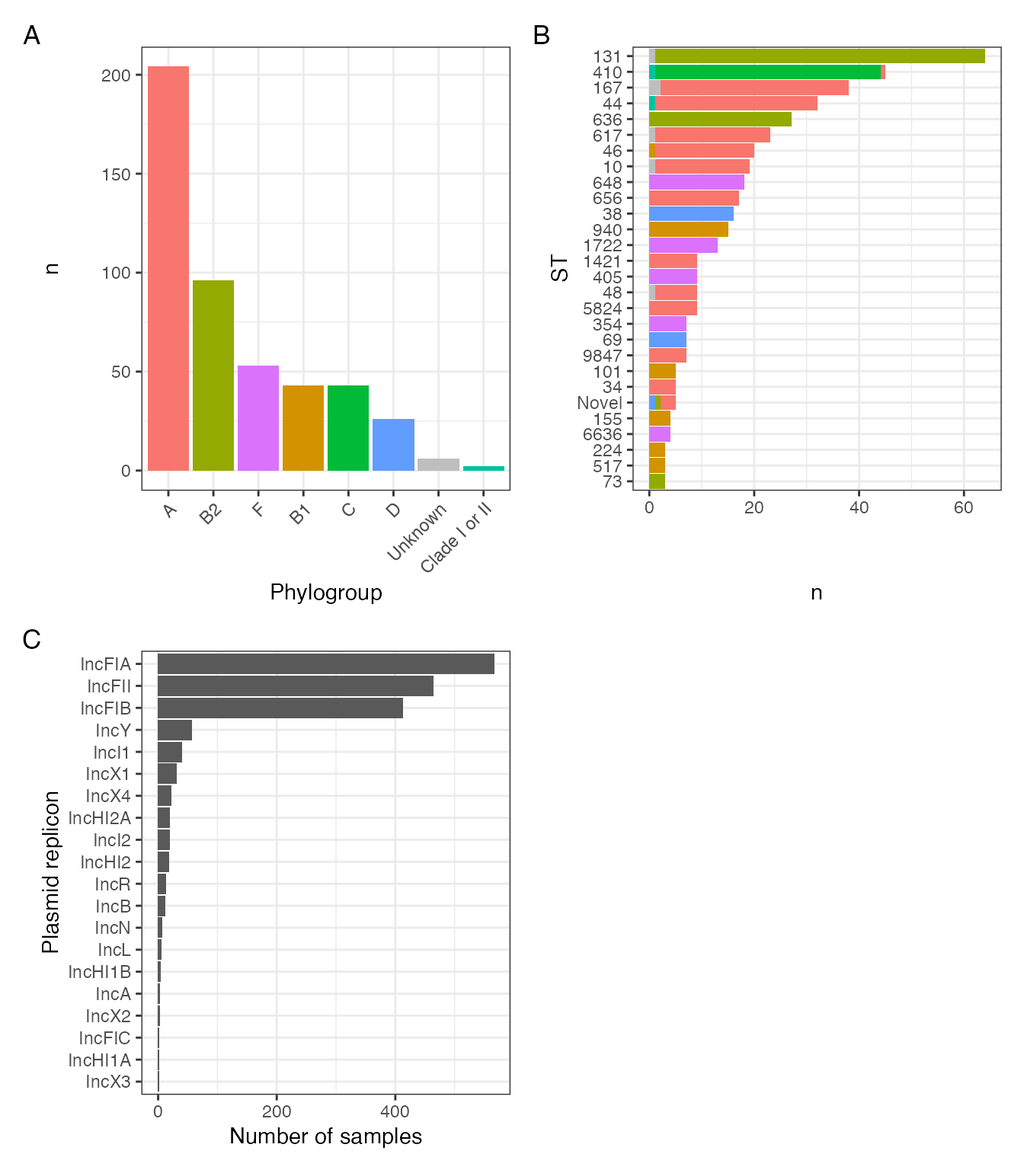
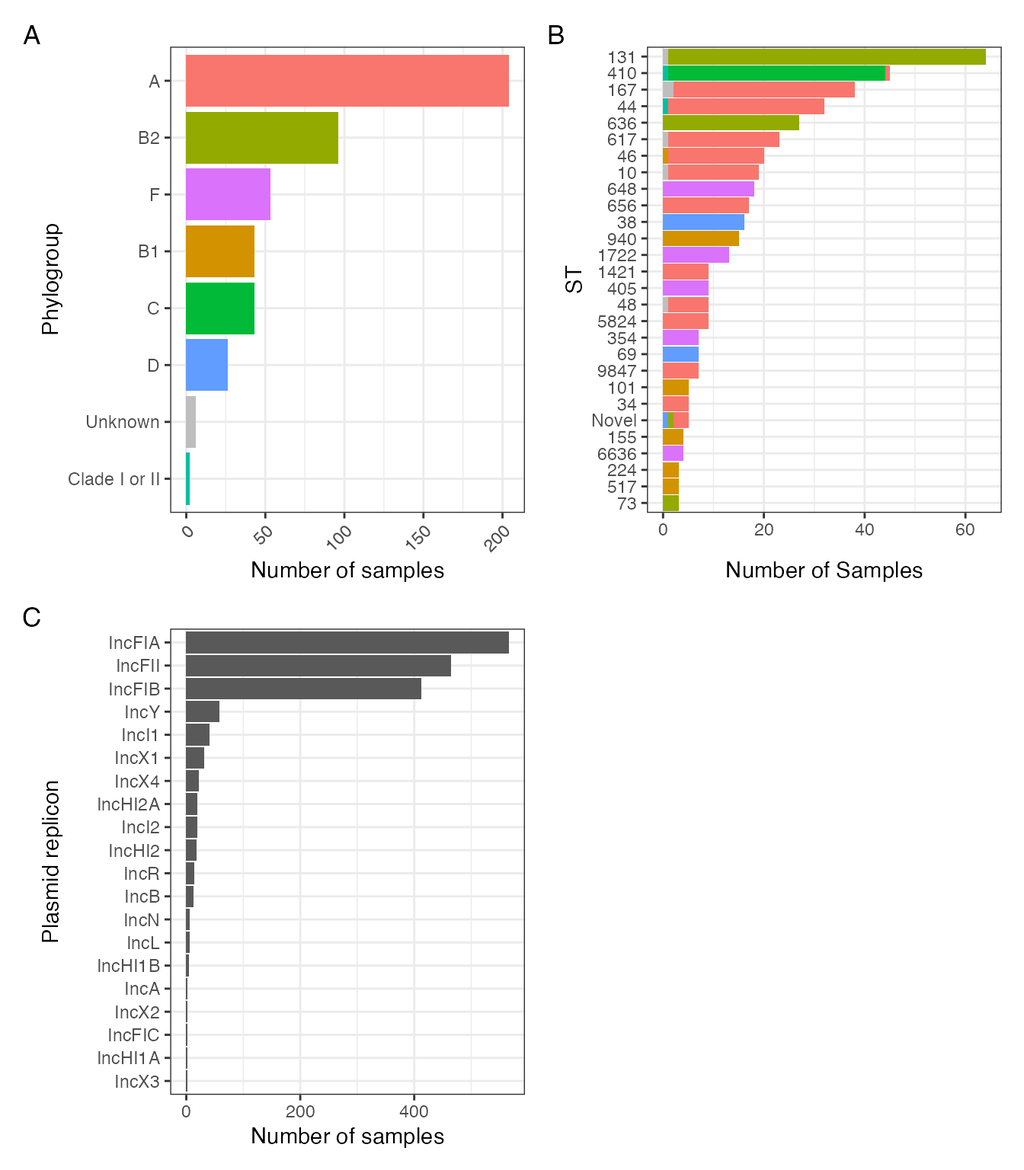
Make pgroup plot coord_flip Correct plot axis errors Add comparison between global and malawi pgroups

diff --git a/docs/articles/analysis-ecoli.html b/docs/articles/analysis-ecoli.html
@@ -97,7 +97,7 @@
 <a href="#introduction" class="anchor"></a>Introduction</h2>
 <p>This document contains reproducing analysis code which generates the tables and figures for the manuscript:</p>
 <p><br></p>
-<p><em>Genomic analysis of extended-spectrum beta-lactamase (ESBL) producing Escherichia coli colonising adults in Blantyre, Malawi reveals unknown diversity n</em></p>
+<p><em>Genomic analysis of extended-spectrum beta-lactamase (ESBL) producing Escherichia coli colonising adults in Blantyre, Malawi reveals previously undescribed diversity</em></p>
 <p><br></p>
 <p>Joseph M Lewis<sup>1,2,3,4</sup>, , Madalitso Mphasa<sup>1</sup>, Rachel Banda<sup>1</sup>, Matthew Beale<sup>4</sup>, Jane Mallewa<sup>5</sup>, Adam P Roberts<sup>2</sup>, Eva Heinz<sup>2</sup>, Nicholas Thomson^4, 6^, Nicholas A Feasey<sup>1,2</sup></p>
 <ol style="list-style-type: decimal">
@@ -13808,13 +13808,13 @@ DAS1286I
   <span class="fu"><a href="https://ggplot2.tidyverse.org/reference/coord_flip.html">coord_flip</a></span><span class="op">(</span><span class="op">)</span> <span class="op">+</span>
   <span class="fu"><a href="https://ggplot2.tidyverse.org/reference/ggtheme.html">theme_bw</a></span><span class="op">(</span><span class="op">)</span> <span class="op">+</span>
   <span class="fu"><a href="https://ggplot2.tidyverse.org/reference/theme.html">theme</a></span><span class="op">(</span>legend.position <span class="op">=</span> <span class="st">"none"</span><span class="op">)</span> <span class="op">+</span>
-  <span class="fu"><a href="https://ggplot2.tidyverse.org/reference/labs.html">labs</a></span><span class="op">(</span>x <span class="op">=</span> <span class="st">"ST"</span>, y <span class="op">=</span> <span class="st">"n"</span><span class="op">)</span> <span class="op">+</span>
+  <span class="fu"><a href="https://ggplot2.tidyverse.org/reference/labs.html">labs</a></span><span class="op">(</span>x <span class="op">=</span> <span class="st">"ST"</span>, y <span class="op">=</span> <span class="st">"Number of Samples"</span><span class="op">)</span> <span class="op">+</span>
   <span class="fu"><a href="https://ggplot2.tidyverse.org/reference/scale_manual.html">scale_fill_manual</a></span><span class="op">(</span>values <span class="op">=</span> <span class="va">pgroup_cols</span><span class="op">)</span> <span class="op">-&gt;</span> 
   <span class="va">p1</span> 
 <span class="co">#  scale_fill_viridis_d(option = "cividis") -&gt; p1</span>
   
 <span class="va">dassimEcoli_BTEcoli.accession</span> <span class="op">%&gt;%</span> 
-  <span class="fu"><a href="https://ggplot2.tidyverse.org/reference/ggplot.html">ggplot</a></span><span class="op">(</span><span class="fu"><a href="https://ggplot2.tidyverse.org/reference/aes.html">aes</a></span><span class="op">(</span><span class="fu"><a href="https://forcats.tidyverse.org/reference/fct_inorder.html">fct_infreq</a></span><span class="op">(</span><span class="va">Phylogroup</span><span class="op">)</span>, fill <span class="op">=</span> <span class="va">Phylogroup</span><span class="op">)</span><span class="op">)</span> <span class="op">+</span>
+  <span class="fu"><a href="https://ggplot2.tidyverse.org/reference/ggplot.html">ggplot</a></span><span class="op">(</span><span class="fu"><a href="https://ggplot2.tidyverse.org/reference/aes.html">aes</a></span><span class="op">(</span><span class="fu"><a href="https://forcats.tidyverse.org/reference/fct_rev.html">fct_rev</a></span><span class="op">(</span><span class="fu"><a href="https://forcats.tidyverse.org/reference/fct_inorder.html">fct_infreq</a></span><span class="op">(</span><span class="va">Phylogroup</span><span class="op">)</span><span class="op">)</span>, fill <span class="op">=</span> <span class="va">Phylogroup</span><span class="op">)</span><span class="op">)</span> <span class="op">+</span>
   <span class="fu"><a href="https://ggplot2.tidyverse.org/reference/geom_bar.html">geom_bar</a></span><span class="op">(</span><span class="op">)</span> <span class="op">+</span>
   <span class="fu"><a href="https://ggplot2.tidyverse.org/reference/ggtheme.html">theme_bw</a></span><span class="op">(</span><span class="op">)</span> <span class="op">+</span>
   <span class="fu"><a href="https://ggplot2.tidyverse.org/reference/theme.html">theme</a></span><span class="op">(</span>legend.position <span class="op">=</span> <span class="st">"none"</span>, 
@@ -13822,7 +13822,8 @@ DAS1286I
                                    hjust <span class="op">=</span> <span class="fl">1</span><span class="op">)</span><span class="op">)</span> <span class="op">+</span>
 <span class="co">#  scale_fill_viridis_d(option = "cividis") +</span>
   <span class="fu"><a href="https://ggplot2.tidyverse.org/reference/scale_manual.html">scale_fill_manual</a></span><span class="op">(</span>values <span class="op">=</span> <span class="va">pgroup_cols</span><span class="op">)</span> <span class="op">+</span>
-  <span class="fu"><a href="https://ggplot2.tidyverse.org/reference/labs.html">labs</a></span><span class="op">(</span>x <span class="op">=</span> <span class="st">"Phylogroup"</span>, y <span class="op">=</span> <span class="st">"n"</span><span class="op">)</span> <span class="op">-&gt;</span> <span class="va">p2</span>
+  <span class="fu"><a href="https://ggplot2.tidyverse.org/reference/coord_flip.html">coord_flip</a></span><span class="op">(</span><span class="op">)</span> <span class="op">+</span>
+  <span class="fu"><a href="https://ggplot2.tidyverse.org/reference/labs.html">labs</a></span><span class="op">(</span>x <span class="op">=</span> <span class="st">"Phylogroup"</span>, y <span class="op">=</span> <span class="st">"Number of samples"</span><span class="op">)</span> <span class="op">-&gt;</span> <span class="va">p2</span>
 
 <span class="va">btESBL_plasmidreplicons</span> <span class="op">%&gt;%</span> 
   <span class="fu"><a href="https://dplyr.tidyverse.org/reference/filter.html">filter</a></span><span class="op">(</span><span class="va">species</span> <span class="op">==</span> <span class="st">"E. coli"</span><span class="op">)</span> <span class="op">%&gt;%</span> 
@@ -13869,6 +13870,64 @@ FIGURE 1: Sequence types (A) and phylogroups (B) of included isolates amd (C) id
 </p>
 </div>
 </div>
+</div>
+<div id="compare-phylogroup-to-horesh-collection" class="section level2">
+<h2 class="hasAnchor">
+<a href="#compare-phylogroup-to-horesh-collection" class="anchor"></a>Compare phylogroup to horesh collection</h2>
+<div class="sourceCode" id="cb5"><pre class="downlit sourceCode r">
+<code class="sourceCode R">
+<span class="fu"><a href="https://dplyr.tidyverse.org/reference/bind.html">bind_rows</a></span><span class="op">(</span>
+<span class="va">btESBL_ecoli_horesh_metadata</span> <span class="op">%&gt;%</span> 
+  <span class="fu"><a href="https://dplyr.tidyverse.org/reference/mutate.html">transmute</a></span><span class="op">(</span>Study <span class="op">=</span> <span class="st">"Global"</span>,
+            Phylogroup <span class="op">=</span> <span class="va">Phylogroup</span><span class="op">)</span>,
+<span class="va">btESBL_sequence_sample_metadata</span> <span class="op">%&gt;%</span> 
+  <span class="fu"><a href="https://dplyr.tidyverse.org/reference/filter.html">filter</a></span><span class="op">(</span><span class="va">species</span> <span class="op">==</span> <span class="st">"E. coli"</span><span class="op">)</span> <span class="op">%&gt;%</span> 
+  <span class="fu"><a href="https://dplyr.tidyverse.org/reference/mutate.html">transmute</a></span><span class="op">(</span>Study <span class="op">=</span> <span class="st">"This Study"</span>,
+            Phylogroup <span class="op">=</span> <span class="va">ecoli_phylogroup</span><span class="op">)</span>
+<span class="op">)</span> <span class="op">%&gt;%</span> 
+  <span class="fu"><a href="https://dplyr.tidyverse.org/reference/mutate.html">mutate</a></span><span class="op">(</span>Phylogroup <span class="op">=</span>
+           <span class="fu"><a href="https://dplyr.tidyverse.org/reference/if_else.html">if_else</a></span><span class="op">(</span><span class="va">Phylogroup</span> <span class="op">==</span> <span class="st">"Not Determined"</span>,
+                   <span class="st">"Unknown"</span>,
+                   <span class="va">Phylogroup</span><span class="op">)</span>,
+         Phylogroup <span class="op">=</span> <span class="fu"><a href="https://forcats.tidyverse.org/reference/fct_inorder.html">fct_infreq</a></span><span class="op">(</span><span class="va">Phylogroup</span><span class="op">)</span>
+  <span class="op">)</span> <span class="op">%&gt;%</span> 
+  <span class="fu"><a href="https://dplyr.tidyverse.org/reference/count.html">count</a></span><span class="op">(</span><span class="va">Study</span>, <span class="va">Phylogroup</span>, .drop <span class="op">=</span> <span class="cn">FALSE</span><span class="op">)</span> <span class="op">%&gt;%</span> 
+  <span class="fu"><a href="https://dplyr.tidyverse.org/reference/group_by.html">group_by</a></span><span class="op">(</span><span class="va">Study</span><span class="op">)</span> <span class="op">%&gt;%</span> 
+  <span class="fu"><a href="https://dplyr.tidyverse.org/reference/mutate.html">mutate</a></span><span class="op">(</span>prop <span class="op">=</span> <span class="va">n</span><span class="op">/</span><span class="fu"><a href="https://rdrr.io/r/base/sum.html">sum</a></span><span class="op">(</span><span class="va">n</span><span class="op">)</span><span class="op">)</span> <span class="op">%&gt;%</span> 
+  <span class="fu"><a href="https://ggplot2.tidyverse.org/reference/ggplot.html">ggplot</a></span><span class="op">(</span><span class="fu"><a href="https://ggplot2.tidyverse.org/reference/aes.html">aes</a></span><span class="op">(</span><span class="fu"><a href="https://forcats.tidyverse.org/reference/fct_reorder.html">fct_reorder</a></span><span class="op">(</span><span class="va">Phylogroup</span>, <span class="va">prop</span><span class="op">)</span>,
+             <span class="va">prop</span>,
+             group <span class="op">=</span> <span class="va">Study</span>,
+             fill <span class="op">=</span> <span class="va">Study</span><span class="op">)</span><span class="op">)</span> <span class="op">+</span>
+  <span class="fu"><a href="https://ggplot2.tidyverse.org/reference/geom_bar.html">geom_col</a></span><span class="op">(</span>position <span class="op">=</span> <span class="st">"dodge"</span><span class="op">)</span> <span class="op">+</span>
+  <span class="fu"><a href="https://ggplot2.tidyverse.org/reference/ggtheme.html">theme_bw</a></span><span class="op">(</span><span class="op">)</span> <span class="op">+</span>
+  <span class="fu"><a href="https://ggplot2.tidyverse.org/reference/theme.html">theme</a></span><span class="op">(</span>axis.text.x <span class="op">=</span> <span class="fu"><a href="https://ggplot2.tidyverse.org/reference/element.html">element_text</a></span><span class="op">(</span>angle <span class="op">=</span> <span class="fl">45</span>, hjust <span class="op">=</span><span class="fl">1</span><span class="op">)</span><span class="op">)</span> <span class="op">+</span>
+  <span class="fu"><a href="https://ggplot2.tidyverse.org/reference/labs.html">labs</a></span><span class="op">(</span>x <span class="op">=</span> <span class="st">"Phylogroup"</span>,
+       y <span class="op">=</span> <span class="st">"Proportion"</span><span class="op">)</span> <span class="op">-&gt;</span>
+  <span class="va">malawi_vs_global_pgroup</span>
+
+<span class="va">malawi_vs_global_pgroup</span></code></pre></div>
+<div class="figure">
+<img src="analysis-ecoli_files/figure-html/globalvsmalawi_pgroup-1.png" alt="Phylogroup distribution in isolates from this study comapred to the global collection" width="480"><p class="caption">
+Phylogroup distribution in isolates from this study comapred to the global collection
+</p>
+</div>
+<div class="sourceCode" id="cb6"><pre class="downlit sourceCode r">
+<code class="sourceCode R">
+
+<span class="kw">if</span> <span class="op">(</span><span class="va">write_figs</span><span class="op">)</span> <span class="op">{</span>
+  <span class="fu"><a href="https://ggplot2.tidyverse.org/reference/ggsave.html">ggsave</a></span><span class="op">(</span>
+    <span class="fu"><a href="https://here.r-lib.org//reference/here.html">here</a></span><span class="op">(</span><span class="st">"figures/ecoli-genomics/global_vs_malawi_pgroup.svg"</span><span class="op">)</span>,
+    <span class="va">malawi_vs_global_pgroup</span>,
+    width <span class="op">=</span> <span class="fl">5</span>,
+    height <span class="op">=</span> <span class="fl">4</span>
+  <span class="op">)</span>
+  <span class="fu"><a href="https://ggplot2.tidyverse.org/reference/ggsave.html">ggsave</a></span><span class="op">(</span>
+    <span class="fu"><a href="https://here.r-lib.org//reference/here.html">here</a></span><span class="op">(</span><span class="st">"figures/ecoli-genomics/global_vs_malawi_pgroup.pdf"</span><span class="op">)</span>,
+    <span class="va">malawi_vs_global_pgroup</span>,
+    width <span class="op">=</span> <span class="fl">5</span>,
+    height <span class="op">=</span> <span class="fl">4</span>
+  <span class="op">)</span>
+<span class="op">}</span></code></pre></div>
 <div id="virulence" class="section level3">
 <h3 class="hasAnchor">
 <a href="#virulence" class="anchor"></a>Virulence</h3>
@@ -13885,7 +13944,7 @@ FIGURE 1: Sequence types (A) and phylogroups (B) of included isolates amd (C) id
 <div id="malawi-phylogeny" class="section level3">
 <h3 class="hasAnchor">
 <a href="#malawi-phylogeny" class="anchor"></a>Malawi phylogeny</h3>
-<div class="sourceCode" id="cb5"><pre class="downlit sourceCode r">
+<div class="sourceCode" id="cb7"><pre class="downlit sourceCode r">
 <code class="sourceCode R">
 <span class="va">dassimEcoli_BTEcoli.accession</span> <span class="op">%&gt;%</span> 
   <span class="fu"><a href="https://rdrr.io/r/base/as.data.frame.html">as.data.frame</a></span><span class="op">(</span><span class="op">)</span> <span class="op">-&gt;</span> <span class="va">dassimEcoli_BTEcoli.accession</span> 
@@ -13974,7 +14033,7 @@ FIGURE 1: Sequence types (A) and phylogroups (B) of included isolates amd (C) id
 SUPPLEMENTARY FIGURE 1: Midpoint-rooted maximum-likelohood phylogeny of study isolates showing phylogroup and multilocus sequence type.
 </p>
 </div>
-<div class="sourceCode" id="cb6"><pre class="downlit sourceCode r">
+<div class="sourceCode" id="cb8"><pre class="downlit sourceCode r">
 <code class="sourceCode R">
 <span class="kw">if</span> <span class="op">(</span><span class="va">write_figs</span><span class="op">)</span> <span class="op">{</span>
   <span class="fu"><a href="https://ggplot2.tidyverse.org/reference/ggsave.html">ggsave</a></span><span class="op">(</span>
@@ -13994,7 +14053,7 @@ SUPPLEMENTARY FIGURE 1: Midpoint-rooted maximum-likelohood phylogeny of study is
 <div id="amr-determinants" class="section level3">
 <h3 class="hasAnchor">
 <a href="#amr-determinants" class="anchor"></a>AMR determinants</h3>
-<div class="sourceCode" id="cb7"><pre class="downlit sourceCode r">
+<div class="sourceCode" id="cb9"><pre class="downlit sourceCode r">
 <code class="sourceCode R">
 
 <span class="co"># add class ro which resistnce is conferred --------------------------------</span>
@@ -14095,14 +14154,14 @@ SUPPLEMENTARY FIGURE 1: Midpoint-rooted maximum-likelohood phylogeny of study is
            label <span class="op">=</span> <span class="va">annotate.df</span><span class="op">$</span><span class="va">class</span>, 
            size <span class="op">=</span> <span class="fl">3</span>, 
            hjust <span class="op">=</span> <span class="fl">1</span><span class="op">)</span> <span class="op">+</span>
-  <span class="fu"><a href="https://ggplot2.tidyverse.org/reference/labs.html">labs</a></span><span class="op">(</span>y <span class="op">=</span> <span class="st">"Number"</span><span class="op">)</span> <span class="op">+</span> 
+  <span class="fu"><a href="https://ggplot2.tidyverse.org/reference/labs.html">labs</a></span><span class="op">(</span>y <span class="op">=</span> <span class="st">"Number of samples"</span><span class="op">)</span> <span class="op">+</span> 
   <span class="fu"><a href="https://ggplot2.tidyverse.org/reference/theme.html">theme</a></span><span class="op">(</span>plot.margin <span class="op">=</span> <span class="fu"><a href="https://rdrr.io/r/grid/unit.html">unit</a></span><span class="op">(</span><span class="fu"><a href="https://rdrr.io/r/base/c.html">c</a></span><span class="op">(</span><span class="fl">0.2</span>,<span class="fl">0.5</span>,<span class="fl">0.2</span>,<span class="fl">4</span><span class="op">)</span>, <span class="st">"cm"</span><span class="op">)</span>,
         axis.title.y  <span class="op">=</span> <span class="fu"><a href="https://ggplot2.tidyverse.org/reference/element.html">element_blank</a></span><span class="op">(</span><span class="op">)</span>,
         legend.position <span class="op">=</span> <span class="st">"none"</span><span class="op">)</span> <span class="op">-&gt;</span> <span class="va">amrplot</span>
 
 <span class="va">amrplot</span></code></pre></div>
 <p><img src="analysis-ecoli_files/figure-html/amrplot-1.png" width="576"></p>
-<div class="sourceCode" id="cb8"><pre class="downlit sourceCode r">
+<div class="sourceCode" id="cb10"><pre class="downlit sourceCode r">
 <code class="sourceCode R">
 
 <span class="kw">if</span> <span class="op">(</span><span class="va">write_figs</span><span class="op">)</span> <span class="op">{</span>
@@ -14122,7 +14181,7 @@ SUPPLEMENTARY FIGURE 1: Midpoint-rooted maximum-likelohood phylogeny of study is
 <div id="amr-mapped-to-tree" class="section level4">
 <h4 class="hasAnchor">
 <a href="#amr-mapped-to-tree" class="anchor"></a>AMR mapped to tree</h4>
-<div class="sourceCode" id="cb9"><pre class="downlit sourceCode r">
+<div class="sourceCode" id="cb11"><pre class="downlit sourceCode r">
 <code class="sourceCode R">
 <span class="va">amr</span> <span class="op">%&gt;%</span> 
   <span class="co"># filter(!gene %in% c("OqxA", "OqxB", "FosA")) %&gt;% </span>
@@ -14192,7 +14251,7 @@ SUPPLEMENTARY FIGURE 1: Midpoint-rooted maximum-likelohood phylogeny of study is
 AMR determinants mapped back to phylogeny
 </p>
 </div>
-<div class="sourceCode" id="cb10"><pre class="downlit sourceCode r">
+<div class="sourceCode" id="cb12"><pre class="downlit sourceCode r">
 <code class="sourceCode R">
 
 <span class="kw">if</span> <span class="op">(</span><span class="va">write_figs</span><span class="op">)</span> <span class="op">{</span>
@@ -14217,7 +14276,7 @@ AMR determinants mapped back to phylogeny
 <div id="phylogeny" class="section level4">
 <h4 class="hasAnchor">
 <a href="#phylogeny" class="anchor"></a>Phylogeny</h4>
-<div class="sourceCode" id="cb11"><pre class="downlit sourceCode r">
+<div class="sourceCode" id="cb13"><pre class="downlit sourceCode r">
 <code class="sourceCode R">
  <span class="co">#prepare metadata ----------</span>
 <span class="co"># lookup list of horesh merged clusters </span>
@@ -14332,7 +14391,7 @@ AMR determinants mapped back to phylogeny
 
 <span class="va">df_all</span> <span class="op">&lt;-</span> <span class="fu"><a href="https://rdrr.io/r/base/as.data.frame.html">as.data.frame</a></span><span class="op">(</span><span class="va">df_all</span><span class="op">)</span>
 <span class="fu"><a href="https://rdrr.io/r/base/colnames.html">rownames</a></span><span class="op">(</span><span class="va">df_all</span><span class="op">)</span> <span class="op">&lt;-</span> <span class="va">df_all</span><span class="op">$</span><span class="va">lane</span>  </code></pre></div>
-<div class="sourceCode" id="cb12"><pre class="downlit sourceCode r">
+<div class="sourceCode" id="cb14"><pre class="downlit sourceCode r">
 <code class="sourceCode R">
 <span class="co">#define color palettes</span>
 
@@ -14740,7 +14799,7 @@ AMR determinants mapped back to phylogeny
 A: Malawian E. coli isolates in a global phylogeny. All genomes from Musicha et al along with 500 context genomes from Horesh et al are included. Heatmaps show Phylogroup, year of collection, continent of collection and country (Malawi vs other). Highlighted areas and subtrees B-D show the phylogenetic context of the three commonest STs in this study: ST410 (B), ST167 (C) and ST131 (D). The tree tips in the subtree plots are coloured by popPUNK cluster assignment, with novel clusters that were not identified in the original Horesh collection given no color.
 </p>
 </div>
-<div class="sourceCode" id="cb13"><pre class="downlit sourceCode r">
+<div class="sourceCode" id="cb15"><pre class="downlit sourceCode r">
 <code class="sourceCode R">
 <span class="kw">if</span> <span class="op">(</span><span class="va">write_figs</span><span class="op">)</span> <span class="op">{</span>
   
@@ -14760,7 +14819,7 @@ A: Malawian E. coli isolates in a global phylogeny. All genomes from Musicha et 
 <div id="poppunk-clusters" class="section level4">
 <h4 class="hasAnchor">
 <a href="#poppunk-clusters" class="anchor"></a>PopPUNK clusters</h4>
-<div class="sourceCode" id="cb14"><pre class="downlit sourceCode r">
+<div class="sourceCode" id="cb16"><pre class="downlit sourceCode r">
 <code class="sourceCode R">
 
 <span class="va">df_all</span> <span class="op">%&gt;%</span> 
@@ -14869,7 +14928,7 @@ A: Malawian E. coli isolates in a global phylogeny. All genomes from Musicha et 
 PopPUNK cluster assignments of isolates from this study, using the Horesh et al database. A: Proportion of samples assigned to a given cluster for this study (left) and the Horesh collection (right); clusters are ordered numerically which by definition is form largest to smallest in the Horesh collection. B: Cumulative proportion of isolates with cluster membership, with clusters again ordered numerically (i.e. largest to smallest). Dotted line indicates the end of clusters defined in the original Horesh popPUNK database; clusters to the right of this line are newly defined in the isolates in this study.
 </p>
 </div>
-<div class="sourceCode" id="cb15"><pre class="downlit sourceCode r">
+<div class="sourceCode" id="cb17"><pre class="downlit sourceCode r">
 <code class="sourceCode R">
 <span class="kw">if</span> <span class="op">(</span><span class="va">write_figs</span><span class="op">)</span> <span class="op">{</span>
   
@@ -14885,7 +14944,7 @@ PopPUNK cluster assignments of isolates from this study, using the Horesh et al 
     height <span class="op">=</span> <span class="fl">6</span><span class="op">)</span>
   
 <span class="op">}</span></code></pre></div>
-<div class="sourceCode" id="cb16"><pre class="downlit sourceCode r">
+<div class="sourceCode" id="cb18"><pre class="downlit sourceCode r">
 <code class="sourceCode R">
 
 <span class="va">df_all</span> <span class="op">%&gt;%</span>
@@ -17916,7 +17975,7 @@ ST3856 (1.00)
 </tr>
 </tbody>
 </table>
-<div class="sourceCode" id="cb17"><pre class="downlit sourceCode r">
+<div class="sourceCode" id="cb19"><pre class="downlit sourceCode r">
 <code class="sourceCode R">
 <span class="kw">if</span> <span class="op">(</span><span class="va">write_figs</span><span class="op">)</span> <span class="op">{</span>
  <span class="fu"><a href="https://readr.tidyverse.org/reference/write_delim.html">write_csv</a></span><span class="op">(</span><span class="va">df_clusttab</span> <span class="op">%&gt;%</span> 
@@ -17933,7 +17992,7 @@ ST3856 (1.00)
  <span class="op">)</span>
    
 <span class="op">}</span></code></pre></div>
-<div class="sourceCode" id="cb18"><pre class="downlit sourceCode r">
+<div class="sourceCode" id="cb20"><pre class="downlit sourceCode r">
 <code class="sourceCode R">
 <span class="co"># bits and bobs to calculate for manuscript</span>
 
@@ -18082,8 +18141,72 @@ ST3856 (1.00)
 <span class="co">#&gt; # A tibble: 1 × 5</span>
 <span class="co">#&gt;       m   min    lq    uq   max</span>
 <span class="co">#&gt;   &lt;int&gt; &lt;int&gt; &lt;dbl&gt; &lt;dbl&gt; &lt;int&gt;</span>
-<span class="co">#&gt; 1     2     1     1     9    64</span></code></pre></div>
-<div class="sourceCode" id="cb19"><pre class="downlit sourceCode r">
+<span class="co">#&gt; 1     2     1     1     9    64</span>
+
+  <span class="co">#QRDR stuff    </span>
+
+  <span class="va">btESBL_amrgenes</span> <span class="op">%&gt;%</span> 
+  <span class="fu"><a href="https://dplyr.tidyverse.org/reference/filter-joins.html">semi_join</a></span><span class="op">(</span><span class="va">dassimEcoli_BTEcoli.accession</span>, 
+            by <span class="op">=</span> <span class="fu"><a href="https://rdrr.io/r/base/c.html">c</a></span><span class="op">(</span> <span class="st">"lane"</span><span class="op">)</span><span class="op">)</span> <span class="op">%&gt;%</span> 
+  <span class="fu"><a href="https://dplyr.tidyverse.org/reference/select.html">select</a></span><span class="op">(</span><span class="op">-</span><span class="va">genus</span><span class="op">)</span> <span class="op">%&gt;%</span> 
+  <span class="fu"><a href="https://dplyr.tidyverse.org/reference/rename.html">rename</a></span><span class="op">(</span>gene <span class="op">=</span> <span class="va">ref_seq</span><span class="op">)</span> <span class="op">%&gt;%</span> 
+  <span class="co"># add in QRDR mutations</span>
+  <span class="fu"><a href="https://dplyr.tidyverse.org/reference/bind.html">bind_rows</a></span><span class="op">(</span>
+    <span class="va">btESBL_qrdr_mutations</span> <span class="op">%&gt;%</span> 
+      <span class="fu"><a href="https://dplyr.tidyverse.org/reference/filter.html">filter</a></span><span class="op">(</span><span class="va">genus</span> <span class="op">==</span> <span class="st">"E. coli"</span><span class="op">)</span> <span class="op">%&gt;%</span> 
+      <span class="fu"><a href="https://dplyr.tidyverse.org/reference/select.html">select</a></span><span class="op">(</span><span class="op">-</span><span class="va">genus</span><span class="op">)</span> <span class="op">%&gt;%</span> 
+      <span class="fu"><a href="https://dplyr.tidyverse.org/reference/filter-joins.html">semi_join</a></span><span class="op">(</span>
+        <span class="va">btESBL_CARD_qrdr_mutations</span>, 
+        by <span class="op">=</span> <span class="fu"><a href="https://rdrr.io/r/base/c.html">c</a></span><span class="op">(</span><span class="st">"variant"</span> <span class="op">=</span> <span class="st">"variant"</span>,
+              <span class="st">"gene"</span> <span class="op">=</span>  <span class="st">"gene"</span><span class="op">)</span>
+      <span class="op">)</span> <span class="op">%&gt;%</span> 
+      <span class="fu"><a href="https://rdrr.io/r/base/unique.html">unique</a></span><span class="op">(</span><span class="op">)</span> <span class="op">%&gt;%</span> 
+      <span class="fu"><a href="https://dplyr.tidyverse.org/reference/mutate.html">mutate</a></span><span class="op">(</span>gene <span class="op">=</span>
+               <span class="fu"><a href="https://rdrr.io/r/base/grep.html">gsub</a></span><span class="op">(</span><span class="st">"(^.{1})"</span>, <span class="st">'\\U\\1'</span>,
+                    <span class="va">gene</span>,
+                    perl <span class="op">=</span> <span class="cn">TRUE</span><span class="op">)</span><span class="op">)</span>
+      <span class="op">)</span> <span class="op">%&gt;%</span> 
+  <span class="fu"><a href="https://dplyr.tidyverse.org/reference/filter.html">filter</a></span><span class="op">(</span><span class="op">!</span><span class="fu"><a href="https://rdrr.io/r/base/grep.html">grepl</a></span><span class="op">(</span><span class="st">"AmpH|AMPH|AmpC|MrdA|MefB"</span>, <span class="va">gene</span><span class="op">)</span><span class="op">)</span> <span class="op">%&gt;%</span> 
+  <span class="co"># add in beta-lactamases</span>
+  <span class="fu"><a href="https://dplyr.tidyverse.org/reference/mutate-joins.html">left_join</a></span><span class="op">(</span>
+    <span class="fu"><a href="https://dplyr.tidyverse.org/reference/select.html">select</a></span><span class="op">(</span><span class="va">btESBL_NCBI_phenotypic_bl</span>, <span class="va">allele_name</span>, <span class="va">class</span><span class="op">)</span>,
+    by <span class="op">=</span> <span class="fu"><a href="https://rdrr.io/r/base/c.html">c</a></span><span class="op">(</span><span class="st">"gene"</span> <span class="op">=</span> <span class="st">"allele_name"</span><span class="op">)</span><span class="op">)</span> <span class="op">%&gt;%</span> 
+  <span class="fu"><a href="https://dplyr.tidyverse.org/reference/mutate.html">mutate</a></span><span class="op">(</span>class <span class="op">=</span> <span class="fu"><a href="https://dplyr.tidyverse.org/reference/case_when.html">case_when</a></span><span class="op">(</span>
+    <span class="fu"><a href="https://stringr.tidyverse.org/reference/str_detect.html">str_detect</a></span><span class="op">(</span><span class="va">gene</span>, <span class="va">quinolone</span><span class="op">)</span> <span class="op">~</span> <span class="st">"Quinolone"</span>,
+    <span class="fu"><a href="https://stringr.tidyverse.org/reference/str_detect.html">str_detect</a></span><span class="op">(</span><span class="va">gene</span>, <span class="va">tetracycline</span><span class="op">)</span> <span class="op">~</span> <span class="st">"Tetracycline"</span>,
+    <span class="fu"><a href="https://stringr.tidyverse.org/reference/str_detect.html">str_detect</a></span><span class="op">(</span><span class="va">gene</span>, <span class="va">sulphonamide</span><span class="op">)</span> <span class="op">~</span> <span class="st">"Sulphonamide"</span>,
+    <span class="fu"><a href="https://stringr.tidyverse.org/reference/str_detect.html">str_detect</a></span><span class="op">(</span><span class="va">gene</span>, <span class="va">aminoglycoside</span><span class="op">)</span> <span class="op">~</span> <span class="st">"Aminoglycoside"</span>,
+    <span class="fu"><a href="https://stringr.tidyverse.org/reference/str_detect.html">str_detect</a></span><span class="op">(</span><span class="va">gene</span>, <span class="va">streptothricin</span><span class="op">)</span> <span class="op">~</span> <span class="st">"Streptothricin"</span>,
+    <span class="fu"><a href="https://stringr.tidyverse.org/reference/str_detect.html">str_detect</a></span><span class="op">(</span><span class="va">gene</span>, <span class="va">macrolide</span><span class="op">)</span> <span class="op">~</span> <span class="st">"Macrolide"</span>,
+    <span class="fu"><a href="https://stringr.tidyverse.org/reference/str_detect.html">str_detect</a></span><span class="op">(</span><span class="va">gene</span>, <span class="va">fosfomycin</span><span class="op">)</span> <span class="op">~</span> <span class="st">"Fosfomycin"</span>,
+    <span class="fu"><a href="https://stringr.tidyverse.org/reference/str_detect.html">str_detect</a></span><span class="op">(</span><span class="va">gene</span>, <span class="va">chloramphenicol</span><span class="op">)</span> <span class="op">~</span> <span class="st">"Chloramphenicol"</span>,
+    <span class="fu"><a href="https://stringr.tidyverse.org/reference/str_detect.html">str_detect</a></span><span class="op">(</span><span class="va">gene</span>, <span class="va">rifampicin</span><span class="op">)</span> <span class="op">~</span> <span class="st">"Rifampicin"</span>,
+    <span class="fu"><a href="https://stringr.tidyverse.org/reference/str_detect.html">str_detect</a></span><span class="op">(</span><span class="va">gene</span>,<span class="va">trimethoprim</span><span class="op">)</span> <span class="op">~</span> <span class="st">"Trimethoprim"</span>,
+    <span class="fu"><a href="https://stringr.tidyverse.org/reference/str_detect.html">str_detect</a></span><span class="op">(</span><span class="va">gene</span>,<span class="va">ESBL</span><span class="op">)</span> <span class="op">~</span> <span class="st">"ESBL"</span>,
+    <span class="fu"><a href="https://stringr.tidyverse.org/reference/str_detect.html">str_detect</a></span><span class="op">(</span><span class="va">gene</span>,<span class="va">penicillinase</span><span class="op">)</span> <span class="op">~</span> <span class="st">"Penicillinase"</span>,
+    <span class="fu"><a href="https://stringr.tidyverse.org/reference/str_detect.html">str_detect</a></span><span class="op">(</span><span class="va">gene</span>,<span class="va">ampc</span><span class="op">)</span> <span class="op">~</span> <span class="st">"AmpC"</span>,
+    <span class="cn">TRUE</span> <span class="op">~</span> <span class="va">class</span>
+  <span class="op">)</span><span class="op">)</span> <span class="op">%&gt;%</span> 
+    <span class="fu"><a href="https://dplyr.tidyverse.org/reference/filter.html">filter</a></span><span class="op">(</span><span class="va">class</span> <span class="op">==</span> <span class="st">"Quinolone"</span><span class="op">)</span> <span class="op">-&gt;</span> <span class="va">quinolone.amr</span>
+  
+  <span class="va">quinolone.amr</span> <span class="op">%&gt;%</span> 
+    <span class="fu"><a href="https://dplyr.tidyverse.org/reference/mutate.html">mutate</a></span><span class="op">(</span>gene <span class="op">=</span> <span class="fu"><a href="https://rdrr.io/r/base/paste.html">paste0</a></span><span class="op">(</span><span class="va">gene</span>, 
+                         <span class="fu"><a href="https://dplyr.tidyverse.org/reference/if_else.html">if_else</a></span><span class="op">(</span>
+                           <span class="op">!</span><span class="fu"><a href="https://rdrr.io/r/base/NA.html">is.na</a></span><span class="op">(</span><span class="va">variant</span><span class="op">)</span>, 
+                           <span class="va">variant</span>, <span class="st">""</span><span class="op">)</span><span class="op">)</span><span class="op">)</span> <span class="op">%&gt;%</span> 
+    <span class="fu"><a href="https://dplyr.tidyverse.org/reference/select.html">select</a></span><span class="op">(</span><span class="va">lane</span>,<span class="va">gene</span><span class="op">)</span> <span class="op">%&gt;%</span> 
+    <span class="fu"><a href="https://rdrr.io/r/base/unique.html">unique</a></span><span class="op">(</span><span class="op">)</span> <span class="op">%&gt;%</span> 
+    <span class="fu"><a href="https://tidyr.tidyverse.org/reference/pivot_wider.html">pivot_wider</a></span><span class="op">(</span>id_cols <span class="op">=</span> <span class="va">lane</span>,
+                names_from <span class="op">=</span> <span class="va">gene</span>,
+                values_from <span class="op">=</span> <span class="va">gene</span>,
+                values_fn <span class="op">=</span> <span class="va">length</span>,
+                values_fill <span class="op">=</span> <span class="fl">0</span><span class="op">)</span> <span class="op">%&gt;%</span> 
+    <span class="fu"><a href="https://dplyr.tidyverse.org/reference/summarise.html">summarise</a></span><span class="op">(</span><span class="fu"><a href="https://dplyr.tidyverse.org/reference/across.html">across</a></span><span class="op">(</span><span class="op">!</span><span class="fu"><a href="https://tidyselect.r-lib.org/reference/starts_with.html">contains</a></span><span class="op">(</span><span class="st">"lane"</span><span class="op">)</span>, <span class="va">sum</span><span class="op">)</span><span class="op">)</span>
+<span class="co">#&gt; # A tibble: 1 × 10</span>
+<span class="co">#&gt;    QepA Qnr_S1 QnrB19 QnrS2 QnrB6 QnrB1 GyrAS83L GyrAD87N ParCS80I ParCE84G</span>
+<span class="co">#&gt;   &lt;int&gt;  &lt;int&gt;  &lt;int&gt; &lt;int&gt; &lt;int&gt; &lt;int&gt;    &lt;int&gt;    &lt;int&gt;    &lt;int&gt;    &lt;int&gt;</span>
+<span class="co">#&gt; 1    47     57      2     1     2     2      351      294      296        8</span></code></pre></div>
+<div class="sourceCode" id="cb21"><pre class="downlit sourceCode r">
 <code class="sourceCode R">
 
 <span class="va">btESBL_plasmidreplicons</span> <span class="op">%&gt;%</span> 
@@ -18135,7 +18258,7 @@ ST3856 (1.00)
 Plasmid replicons mapped back to tree
 </p>
 </div>
-<div class="sourceCode" id="cb20"><pre class="downlit sourceCode r">
+<div class="sourceCode" id="cb22"><pre class="downlit sourceCode r">
 <code class="sourceCode R">
 <span class="kw">if</span> <span class="op">(</span><span class="va">write_figs</span><span class="op">)</span> <span class="op">{</span>
   
@@ -18156,7 +18279,7 @@ Plasmid replicons mapped back to tree
 <div id="st410-trees" class="section level3">
 <h3 class="hasAnchor">
 <a href="#st410-trees" class="anchor"></a>ST410 trees</h3>
-<div class="sourceCode" id="cb21"><pre class="downlit sourceCode r">
+<div class="sourceCode" id="cb23"><pre class="downlit sourceCode r">
 <code class="sourceCode R">
 
 <span class="va">btESBL_ecoli_st410_metadata</span> <span class="op">%&gt;%</span> 
@@ -18349,7 +18472,7 @@ Plasmid replicons mapped back to tree
 ST410 map-to-reference global maximum likelihood, midpoint rooted tree
 </p>
 </div>
-<div class="sourceCode" id="cb22"><pre class="downlit sourceCode r">
+<div class="sourceCode" id="cb24"><pre class="downlit sourceCode r">
 <code class="sourceCode R">
 <span class="fu">treeio</span><span class="fu">::</span><span class="fu"><a href="https://docs.ropensci.org/treeio/reference/tree_subset.html">tree_subset</a></span><span class="op">(</span>
   <span class="va">btESBL_ecoli_globalst410_tree</span>, <span class="fl">564</span>, levels_back <span class="op">=</span> <span class="fl">0</span><span class="op">)</span> <span class="op">-&gt;</span> <span class="va">st410_subtree</span>
@@ -18455,7 +18578,7 @@ ST410 map-to-reference global maximum likelihood, midpoint rooted tree
 <span class="co">#&gt; will replace the existing scale.</span>
 <span class="co">#&gt; Scale for 'y' is already present. Adding another scale for 'y', which will</span>
 <span class="co">#&gt; replace the existing scale.</span></code></pre></div>
-<div class="sourceCode" id="cb23"><pre class="downlit sourceCode r">
+<div class="sourceCode" id="cb25"><pre class="downlit sourceCode r">
 <code class="sourceCode R">
 <span class="va">btESBL_ecoli_st167_plasmids</span> <span class="op">%&gt;%</span> 
   <span class="fu"><a href="https://dplyr.tidyverse.org/reference/filter.html">filter</a></span><span class="op">(</span><span class="fu"><a href="https://rdrr.io/r/base/grep.html">grepl</a></span><span class="op">(</span><span class="st">"Inc"</span>, <span class="va">ref_seq</span><span class="op">)</span><span class="op">)</span> <span class="op">%&gt;%</span> 
@@ -18643,7 +18766,7 @@ ST410 map-to-reference global maximum likelihood, midpoint rooted tree
 ST167 map-to-reference global maximum likelihood, midpoint rooted tree
 </p>
 </div>
-<div class="sourceCode" id="cb24"><pre class="downlit sourceCode r">
+<div class="sourceCode" id="cb26"><pre class="downlit sourceCode r">
 <code class="sourceCode R">
 <span class="kw">if</span> <span class="op">(</span><span class="va">write_figs</span><span class="op">)</span> <span class="op">{</span>
 
@@ -18653,7 +18776,7 @@ ST167 map-to-reference global maximum likelihood, midpoint rooted tree
 <span class="fu"><a href="https://ggplot2.tidyverse.org/reference/ggsave.html">ggsave</a></span><span class="op">(</span><span class="fu"><a href="https://here.r-lib.org//reference/here.html">here</a></span><span class="op">(</span><span class="st">"figures/ecoli-genomics/st167_globaltreeplot.pdf"</span><span class="op">)</span>,
        <span class="va">st167_globaltree_plot</span>, width <span class="op">=</span> <span class="fl">10</span>, height <span class="op">=</span> <span class="fl">10</span><span class="op">)</span>
 <span class="op">}</span></code></pre></div>
-<div class="sourceCode" id="cb25"><pre class="downlit sourceCode r">
+<div class="sourceCode" id="cb27"><pre class="downlit sourceCode r">
 <code class="sourceCode R">
 
 <span class="fu">treeio</span><span class="fu">::</span><span class="fu"><a href="https://docs.ropensci.org/treeio/reference/tree_subset.html">tree_subset</a></span><span class="op">(</span>
@@ -18749,7 +18872,7 @@ ST167 map-to-reference global maximum likelihood, midpoint rooted tree
 <span class="co">#&gt; will replace the existing scale.</span>
 <span class="co">#&gt; Scale for 'y' is already present. Adding another scale for 'y', which will</span>
 <span class="co">#&gt; replace the existing scale.</span></code></pre></div>
-<div class="sourceCode" id="cb26"><pre class="downlit sourceCode r">
+<div class="sourceCode" id="cb28"><pre class="downlit sourceCode r">
 <code class="sourceCode R">
 <span class="va">st410_subtree_plot</span> <span class="op">+</span>
 <span class="va">st167_subtree_plot</span> <span class="op">+</span>
@@ -18782,7 +18905,7 @@ E. coli ST140 (A) and ST167 (B) subtrees showing ESBL/CPE genes and plasmid mrep
 <div id="reproducibility---packages-r-version-and-os-used" class="section level3">
 <h3 class="hasAnchor">
 <a href="#reproducibility---packages-r-version-and-os-used" class="anchor"></a>Reproducibility - packages, R version and OS used</h3>
-<div class="sourceCode" id="cb27"><pre class="downlit sourceCode r">
+<div class="sourceCode" id="cb29"><pre class="downlit sourceCode r">
 <code class="sourceCode R">
 <span class="fu"><a href="https://rdrr.io/r/utils/sessionInfo.html">sessionInfo</a></span><span class="op">(</span><span class="op">)</span>
 <span class="co">#&gt; R version 4.1.1 (2021-08-10)</span>
